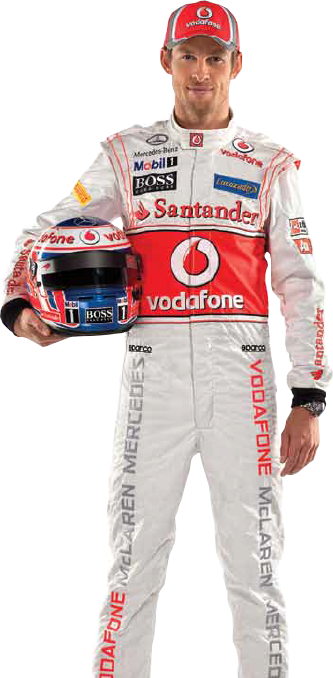
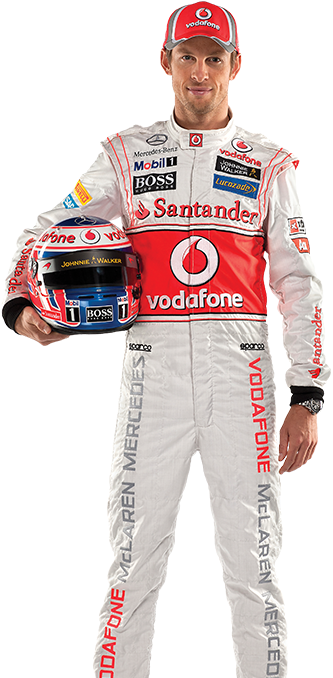
High res imagery and title font

diff --git a/Technology/Driver-Lewis.html b/Technology/Driver-Lewis.html
@@ -1,6 +1,6 @@
 <html>
 <body style="background: transparent url(Driver-Lewis@2x.png) -40px 20px no-repeat; background-size: 65%; color: white; font-family: Helvetica; padding-left: 53%; padding-top: 20px; font-size: 11px;">
-    <h1 style="text-transform: uppercase; font-style: oblique; line-height: 20px;">Lewis<br />Hamilton</h1>
+    <h1 style="text-transform: uppercase; font-family: 'HelveticaNeueLTStd-HvCnO'; line-height: 20px;">Lewis<br />Hamilton</h1>
     <p style="font-size: 12px;">Nationality: <b>British</b><br />
     Born: <b>Stevenage, U.K.</b><br />
     Height: <b>1.74m</b><br />

diff --git a/Technology/Driver-Jenson.html b/Technology/Driver-Jenson.html
@@ -1,6 +1,6 @@
 <html>
 <body style="background: transparent url(Driver-Jenson@2x.png) -40px 20px no-repeat; background-size: 65%; color: white; font-family: Helvetica; padding-left: 53%; padding-top: 20px; font-size: 11px;">
-    <h1 style="text-transform: uppercase; font-style: oblique; line-height: 20px;">Jenson<br />Button</h1>
+    <h1 style="text-transform: uppercase; font-family: 'HelveticaNeueLTStd-HvCnO'; line-height: 20px;">Jenson<br />Button</h1>
     <p style="font-size: 12px;">Nationality: <b>British</b><br />
     Born: <b>Frome, Somerset</b><br />
     Height: <b>1.82m</b><br />
